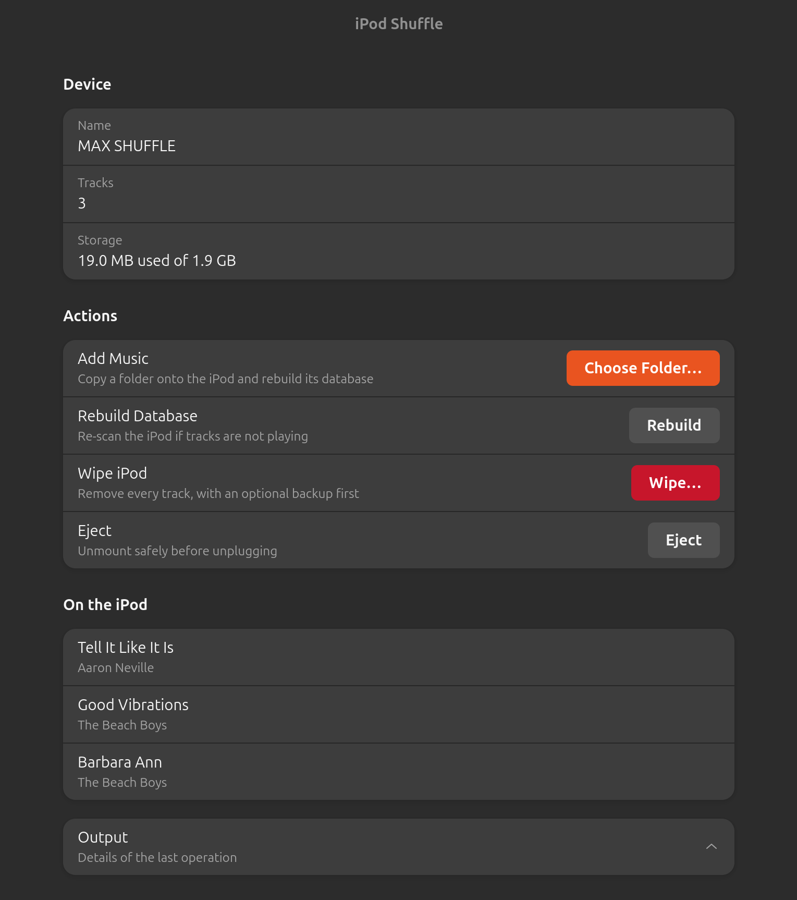
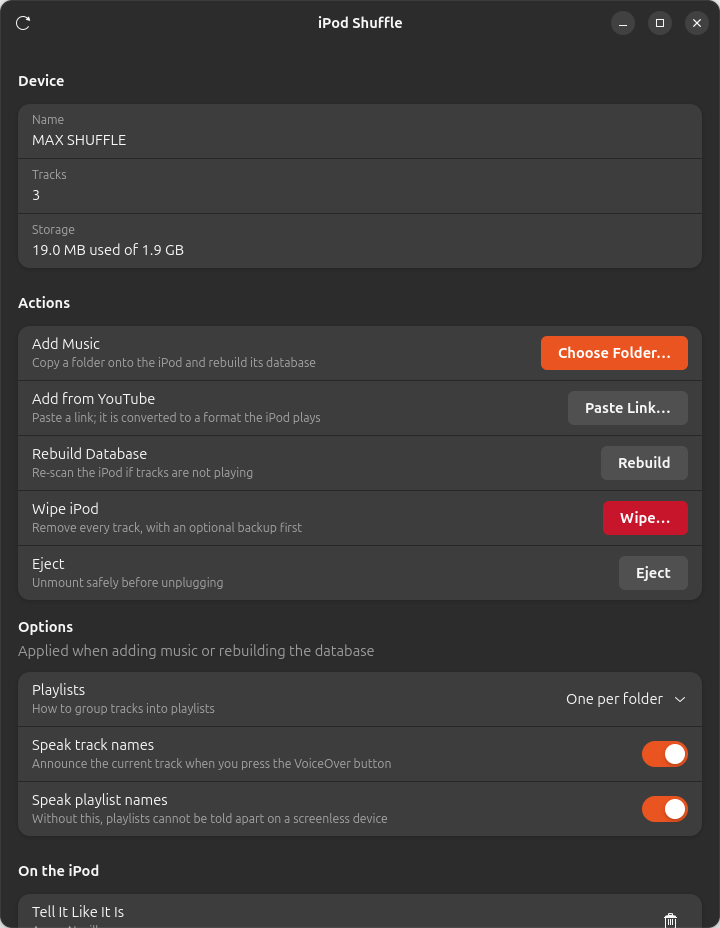
no-mistakes(document): Refresh GUI documentation and clear lint

diff --git a/README.md b/README.md
@@ -97,7 +97,7 @@ It shows real song titles and artists rather than the scrambled filenames stored
 
 Each track in the list has a delete button, which removes that one song and rebuilds the database.
 **Add from YouTube** asks for a link, offering whatever is already on the clipboard, and downloads it as AAC into `~/Music/youtube` before copying it onto the device.
-Only the tracks that download produced are copied, so pasting a second link does not push a growing library back onto a 2GB device, and pasting a link you have already fetched reports that there is nothing new rather than doing it again.
+When `yt-dlp` can report the files it fetched, only the tracks that download produced are copied, so pasting a second link does not push a growing library back onto a 2GB device, and pasting a link you have already fetched reports that there is nothing new rather than doing it again.
 
 That button is insensitive when a download could not succeed, and says which piece is missing: `yt-dlp`, `ffmpeg`, or a JavaScript runtime.
 Checking beforehand is worth the trouble because every one of those failures otherwise appears several steps later as something else, most memorably as `HTTP Error 403` on every track but the oldest.
